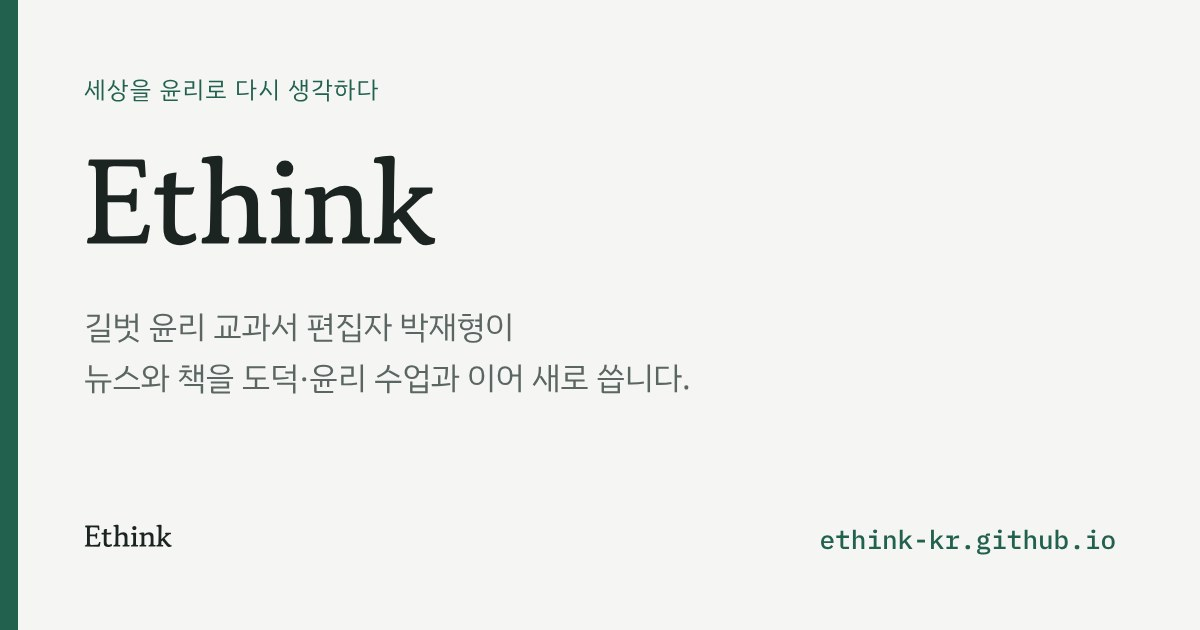
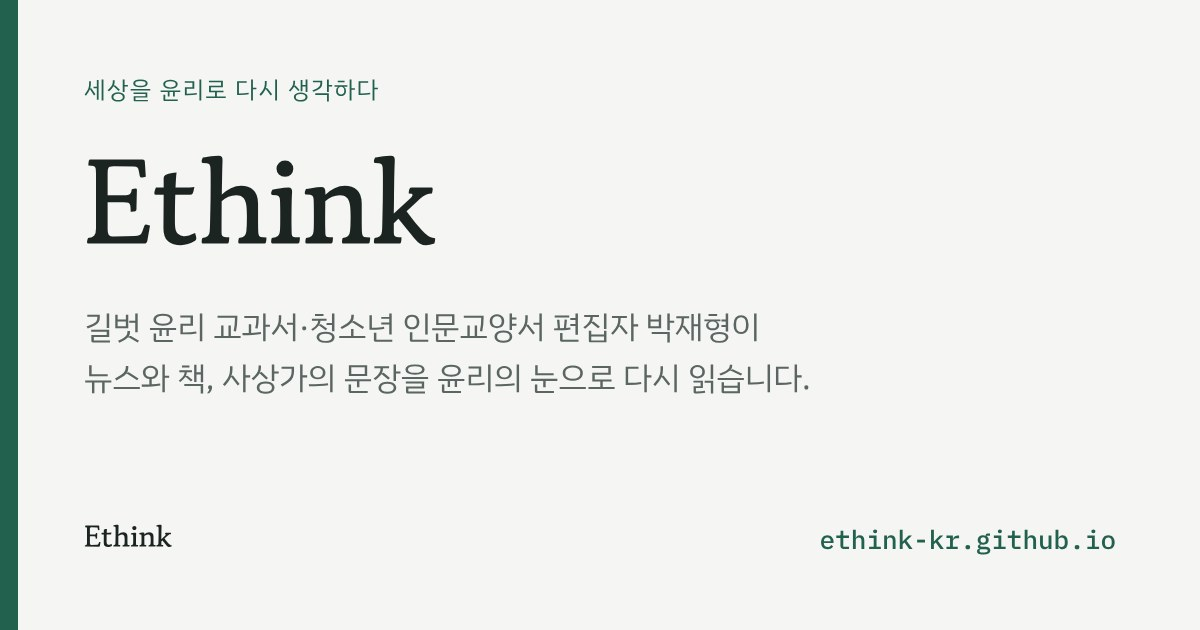
사이트 설명을 사이트 전체용으로 바꾸고, 홈 첫머리에는 「윤리로 읽는 뉴스」 코너 설명만 남김
Claude-Session: https://claude.ai/code/session_01XG1As5bs7T7JRpnijV2F6T

Changed region(s): [[0.1542, 0.573, 0.6783, 0.6333], [0.2467, 0.4825, 0.6475, 0.5429]]

diff --git a/index.html b/index.html
@@ -6,7 +6,7 @@ layout: default
 {% assign items = site.items | where: "issue", latest.issue_id | sort: "num" %}
 <section class="home-hero">
   <p class="home-tag">{{ site.news_title }} · {{ site.news_tagline }}</p>
-  <p class="home-desc">{{ site.description }}</p>
+  <p class="home-desc">{{ site.news_description }}</p>
 </section>
 
 <section class="latest">
